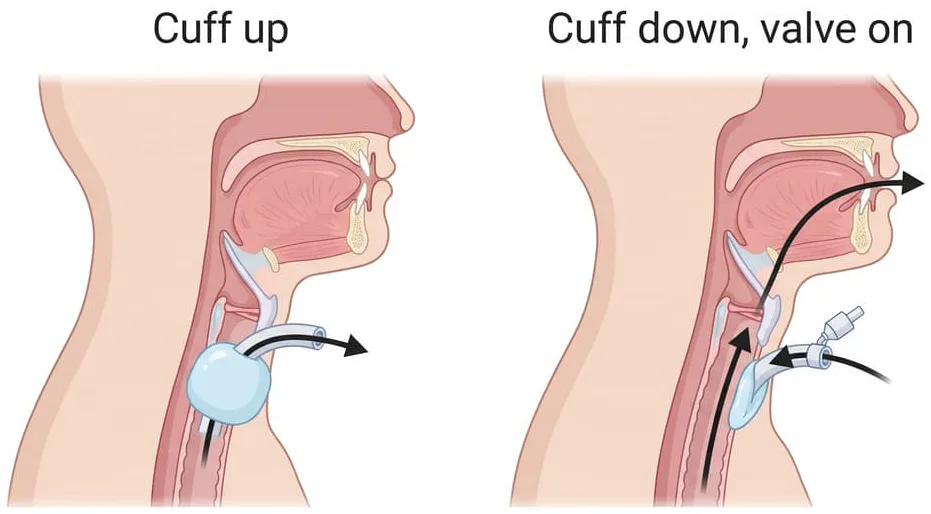
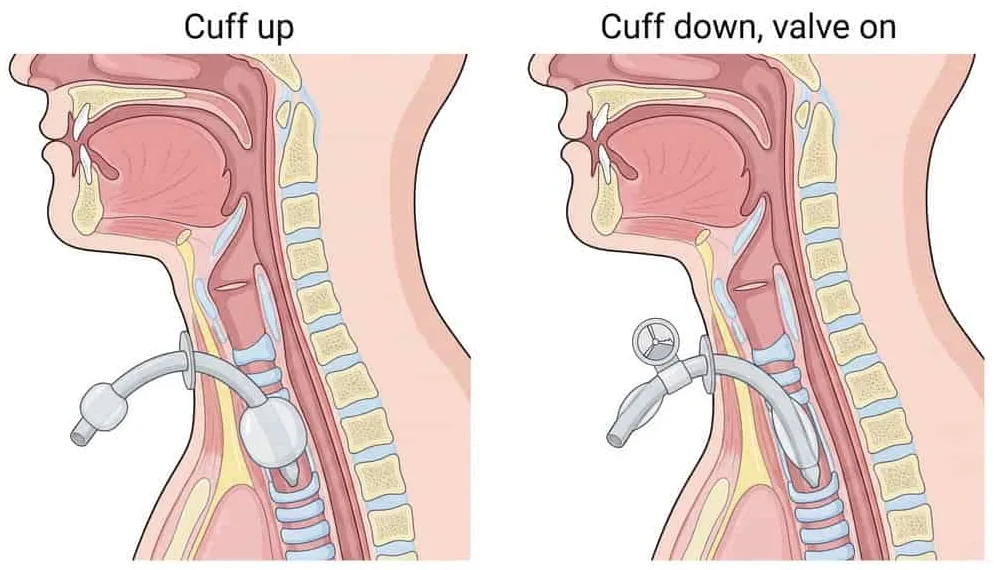
liberation: fixes from the independent content audit; redrawn speaking-valve plate
Claude-Session: https://claude.ai/code/session_01CMoRtAYGK1YNh1Z7gP8FnA

diff --git a/liberation/index.html b/liberation/index.html
@@ -258,7 +258,7 @@ footer p{margin:0 0 8px}
   <p><strong>For education only. Not a substitute for clinical judgment.</strong> Built to the ATS/CHEST 2017 liberation guideline, the AARC 2024 guideline, the ERS/ATS 2017 noninvasive ventilation guideline and the ERS 2022 high-flow guideline, with the UK National Tracheostomy Safety Project algorithm and the FICM/ICS 2020 tracheostomy care guidance for the tracheostomy steps. The daily screen, first trial and cuff leak test are in the ventilator tool; sedation in the sedation tool. Airway teams, tracheostomy equipment and protocols vary, so adjust to your institution. Evidence tiers are shown as strength and certainty (strong or conditional; high, moderate, low or very low); rows marked expert practice are not from a graded guideline. Bedside predictors are shown with the study and the population they came from.</p>
   <p>Privacy: everything runs in your browser. Nothing you enter is sent anywhere or stored, and there are no analytics. Do not enter names, record numbers, or dates of birth.</p>
   <p class="mono">Last reviewed: 2026-11-26</p>
-  <p><strong>Sources:</strong> Schmidt GA et al., ATS/CHEST liberation guideline executive summary, Chest 2017;151:160 · Ouellette DR et al., Chest 2017;151:166 · Girard TD et al., Am J Respir Crit Care Med 2017;195:120 · Roberts KJ et al., AARC guideline on spontaneous breathing trials, Respir Care 2024;69:891 · Rochwerg B et al., ERS/ATS noninvasive ventilation guideline, Eur Respir J 2017;50:1602426 · Oczkowski S et al., ERS high-flow guideline, Eur Respir J 2022;59:2101574 · Quintard H et al., SFAR/SRLF extubation guideline, Ann Intensive Care 2019;9:13 · Boles JM et al., weaning task force, Eur Respir J 2007;29:1033 · Béduneau G et al. (WIND), Am J Respir Crit Care Med 2017;195:772 · McGrath BA et al., National Tracheostomy Safety Project algorithms, Anaesthesia 2012;67:1025 · Faculty of Intensive Care Medicine and Intensive Care Society, Guidance for tracheostomy care, 2020 · Intensive Care Society, Standards for the care of adult patients with a temporary tracheostomy, 2014 · Passy-Muir valve instructions for use · NCEPOD, On the right trach?, 2014 · Predictors and mechanisms: Anguel N et al., Intensive Care Med 2008;34:1231 · Lamia B et al., Crit Care Med 2009;37:1696 · Liu J et al., Crit Care 2016;20:369 · Routsi C et al., Crit Care 2010;14:R204 · DiNino E et al., Thorax 2014;69:423 · Levine S et al., N Engl J Med 2008;358:1327 · Dres M et al., Am J Respir Crit Care Med 2017;195:57 · Salam A et al., Intensive Care Med 2004;30:1334 · Smina M et al., Chest 2003;124:262 · Khamiees M et al., Chest 2001;120:1262 · Coplin WM et al., Am J Respir Crit Care Med 2000;161:1530 · Epstein SK et al., Chest 1997;112:186 · Burns KE et al., Cochrane 2013;CD004127 · Andriolo BN et al., Cochrane 2015;CD007271 · Chorath K et al., JAMA Otolaryngol 2021 · Trials: Esteban A et al., N Engl J Med 1995;332:345 · Ely EW et al., N Engl J Med 1996;335:1864 · Girard TD et al. (ABC), Lancet 2008;371:126 · Subirà C et al., JAMA 2019;321:2175 · Thille AW et al. (TIP-EX), N Engl J Med 2022;387:1843 · Mekontso Dessap A et al., Am J Respir Crit Care Med 2012;186:1256 · Thille AW et al. (HIGH-WEAN), JAMA 2019;322:1465 · Hernández G et al., JAMA 2016;315:1354 · Hernández G et al., JAMA 2016;316:1565 · Esteban A et al., N Engl J Med 2004;350:2452 · François B et al., Lancet 2007;369:1083 · Jubran A et al., JAMA 2013;309:671 · Young D et al. (TracMan), JAMA 2013;309:2121 · Terragni PP et al., JAMA 2010;303:1483.</p>
+  <p><strong>Sources:</strong> Schmidt GA et al., ATS/CHEST liberation guideline executive summary, Chest 2017;151:160 · Ouellette DR et al., Chest 2017;151:166 · Girard TD et al., Am J Respir Crit Care Med 2017;195:120 · Roberts KJ et al., AARC guideline on spontaneous breathing trials, Respir Care 2024;69:891 · Rochwerg B et al., ERS/ATS noninvasive ventilation guideline, Eur Respir J 2017;50:1602426 · Oczkowski S et al., ERS high-flow guideline, Eur Respir J 2022;59:2101574 · Goel NN et al., ATS noninvasive respiratory support guideline, Am J Respir Crit Care Med 2026;212:2135 (abstract) · Quintard H et al., SFAR/SRLF extubation guideline, Ann Intensive Care 2019;9:13 · Boles JM et al., weaning task force, Eur Respir J 2007;29:1033 · Béduneau G et al. (WIND), Am J Respir Crit Care Med 2017;195:772 · McGrath BA et al., National Tracheostomy Safety Project algorithms, Anaesthesia 2012;67:1025 · Faculty of Intensive Care Medicine and Intensive Care Society, Guidance for tracheostomy care, 2020 · Intensive Care Society, Standards for the care of adult patients with a temporary tracheostomy, 2014 · Passy-Muir valve instructions for use · NCEPOD, On the right trach?, 2014 · Predictors and mechanisms: Anguel N et al., Intensive Care Med 2008;34:1231 · Lamia B et al., Crit Care Med 2009;37:1696 · Liu J et al., Crit Care 2016;20:369 · Routsi C et al., Crit Care 2010;14:R204 · DiNino E et al., Thorax 2014;69:423 · Levine S et al., N Engl J Med 2008;358:1327 · Dres M et al., Am J Respir Crit Care Med 2017;195:57 · Salam A et al., Intensive Care Med 2004;30:1334 · Smina M et al., Chest 2003;124:262 · Khamiees M et al., Chest 2001;120:1262 · Coplin WM et al., Am J Respir Crit Care Med 2000;161:1530 · Epstein SK et al., Chest 1997;112:186 · Burns KE et al., Cochrane 2013;CD004127 · Andriolo BN et al., Cochrane 2015;CD007271 · Chorath K et al., JAMA Otolaryngol Head Neck Surg 2021;147:450 · Trials: Esteban A et al., N Engl J Med 1995;332:345 · Ely EW et al., N Engl J Med 1996;335:1864 · Girard TD et al. (ABC), Lancet 2008;371:126 · Subirà C et al., JAMA 2019;321:2175 · Thille AW et al. (TIP-EX), N Engl J Med 2022;387:1843 · Mekontso Dessap A et al., Am J Respir Crit Care Med 2012;186:1256 · Thille AW et al. (HIGH-WEAN), JAMA 2019;322:1465 · Hernández G et al., JAMA 2016;315:1354 · Hernández G et al., JAMA 2016;316:1565 · Esteban A et al., N Engl J Med 2004;350:2452 · François B et al., Lancet 2007;369:1083 · Jubran A et al., JAMA 2013;309:671 · Young D et al. (TracMan), JAMA 2013;309:2121 · Terragni PP et al., JAMA 2010;303:1483.</p>
 </footer>
 </div>
 <script id="engine">
@@ -290,7 +290,9 @@ var WHY = {
   hfnc: 'High flow washes out dead space and gives a little pressure; in low-risk patients it lowered reintubation from 12.2% to 4.9%.',
   fail: 'Waiting on NIV once failure has set in delayed reintubation and was linked with higher ICU mortality.',
   emerg: 'Oxygenation comes first; a fresh tract can close or mislead a tube into the tissues, so the airway from above is the safer route.',
-  timing: 'Early tracheostomy did not lower mortality, and many patients in the late groups recovered without one, so timing follows the expected course, not a fixed day.',
+  lary: 'After a laryngectomy the mouth no longer connects to the lungs, so oxygen and any airway can go only through the stoma.',
+  hfncHigh: 'In high-risk patients high flow was non-inferior to NIV for reintubation, and was better tolerated (NIV stopped for side effects in 43%).',
+  timing: 'Early tracheostomy did not lower mortality, and many patients in the late groups never received one, so timing follows the expected course, not a fixed day.',
   care: 'A displaced or blocked tube is the commonest serious complication; the right kit and a sign at the bed save the minutes that matter.',
   talk: 'A one-way valve lets air in through the tube and out through the mouth; with the cuff up, the breath has nowhere to go.'
 };
@@ -338,7 +340,7 @@ var DOMAINS = [
     fix: ['Replace electrolytes; correct a metabolic alkalosis (often from diuretics or gastric losses).'],
     why: 'metab', tier: 'Expert practice'}
 ];
-function domainScore(d, i){ var s = 0; Object.keys(d.w).forEach(function(k){ if (i[k]) s += d.w[k]; }); if (d.k === 'nm' && has(i.dvent) && i.dvent >= 7) s += 1; return s; }
+function domainScore(d, i){ var s = 0; Object.keys(d.w).forEach(function(k){ if (i[k]) s += d.w[k]; }); if (d.k === 'nm' && s > 0 && has(i.dvent) && i.dvent >= 7) s += 1; return s; }
 
 function weanCards(i){
   var cards = [], c0 = weanClass(i);
@@ -354,11 +356,11 @@ function weanCards(i){
     if (d.k === 'load' || d.k === 'nm' || d.k === 'cardiac') (c.chips = c.chips || []).push(['balance', d.k === 'load' ? 'airway' : d.k === 'nm' ? 'weak' : 'fluid', 'Load against capacity']);
     cards.push(c);
   });
-  if (ranked.length || c0){
+  if (ranked.length || (c0 && (i.nfail > 0 || has(i.dfirst)))){
     var n = {id: 'c-next', label: 'Next attempt', head: i.trach ? 'Next trial: off the ventilator on a tracheostomy collar' : 'Fix the cause, then retry tomorrow', list: []};
     if (i.trach) n.list.push('In long-term weaning on a tracheostomy, unassisted collar trials weaned faster than gradual pressure-support reduction (median 15 against 19 days, 316 patients).');
     n.list.push('Screen daily and run the trial before noon; do not raise the FiO2 during it (AARC 2024, conditional, very low).');
-    n.list.push('First trial with pressure support 5 to 8 cm H2O rather than a T-piece (conditional, moderate). In high-risk patients a pressure-support trial got more patients extubated within 24 hours with similar reintubation (TIP-EX).');
+    n.list.push('Pressure support 5 to 8 cm H2O or a T-piece: ATS/CHEST 2017 suggests pressure support for the first trial (conditional, moderate); AARC 2024 accepts either (conditional, moderate). In high-risk patients a pressure-support trial got more patients extubated within 24 hours with similar reintubation (TIP-EX).');
     var prol = (has(i.dfirst) && i.dfirst >= 7) || (has(i.nfail) && i.nfail >= 3);
     if (prol && !i.trach) n.list.push('Prolonged weaning: weigh a tracheostomy (Trach tab).');
     if (prol) n.list.push('If weaning is prolonged and the overall course is not improving, hold a goals-of-care conversation alongside the plan (expert practice).');
@@ -374,13 +376,14 @@ function extCards(i){
   if (has(i.hrs) || anyFail){
     var f = {id: 'c-fail', label: 'After extubation', list: [], guards: []};
     if (i.strid){
-      f.head = 'Stridor: an airway emergency in waiting'; f.stop = !!(i.work || i.spo2 || i.mental);
+      f.head = 'Stridor: an airway emergency in waiting'; f.stop = !!(i.work || i.spo2 || i.mental || i.co2 || i.clear);
       f.sub = 'Sit the patient up, give humidified oxygen, and call the airway team now.';
       f.list = ['Nebulized epinephrine and an IV steroid are commonly given, and heliox can bridge; none is backed by a graded guideline (expert practice).', 'High flow and NIV do not relieve laryngeal edema.', 'Worsening, or with the other signs of failure: reintubate, with a smaller tube and difficult-airway equipment ready.'];
       f.guards.push('Do not let NIV or nebulizers delay reintubation.');
       f.why = WHY.stridor; f.tiers = ['Expert practice'];
     } else if (anyFail){
-      f.stop = true; f.head = 'Failing after extubation: reintubate';
+      var nsig = TE2.filter(function(t){ return i[t[0]]; }).length;
+      f.stop = true; f.head = nsig > 1 ? 'Failing after extubation: reintubate' : 'Signs of failure: reassess now and prepare to reintubate';
       f.sub = 'Signs entered: ' + TE2.filter(function(t){ return i[t[0]]; }).map(function(t){ return t[1].toLowerCase(); }).join('; ') + '.';
       f.list = ['Do not treat established failure with NIV: in the trial it did not prevent reintubation (48% in both arms), delayed it (12 against 2.5 hours), and ICU mortality was higher (25% against 14%).', 'A French guideline allows a careful NIV trial in COPD or clear cardiogenic edema, with weak agreement; only with intubation ready.', 'Patients who failed extubation had higher hospital mortality (43% against 12% in one cohort), partly from the failure itself and partly from what caused it.'];
       f.why = WHY.fail; f.tiers = ['Against NIV for established failure: conditional, low (ERS/ATS 2017)'];
@@ -404,7 +407,7 @@ function extCards(i){
   else { a.head = r === 2 ? 'Two airway risks: failure much more likely' : 'One airway risk: plan for it'; a.sub = 'Present: ' + which.join(', ') + '.'; }
   if (r) a.list.push('Each raised the risk of failure: peak cough flow 60 L/min or less about 5 times, secretions over 2.5 mL/h about 3 times, unable to follow 4 commands about 4 times. Any two: sensitivity 71%, specificity 81%.');
   if (i.brain && i.cmd === 'no') a.list.push('Brain injury: in one cohort, staying intubated for a low coma score alone led to more pneumonia without fewer reintubations; judge cough and secretions, not the score alone.');
-  a.list.push('Before extubation: screen swallowing and consciousness, and involve the physiotherapist (expert consensus).');
+  a.list.push('Before extubation: screen swallowing and consciousness, and involve the physiotherapist (SFAR/SRLF 2019, grade 2+).');
   a.why = r ? WHY.airway : null; a.tiers = ['Bedside predictors: cohort studies'];
   cards.push(a);
   /* Stridor */
@@ -428,19 +431,19 @@ function extCards(i){
     p.head = 'High risk, NIV not possible: high flow';
     p.sub = 'High flow when NIV is contraindicated or not tolerated (ERS 2022).';
     p.list = ['In high-risk patients high flow was non-inferior to NIV for reintubation (22.8% against 19.1%); NIV was stopped for side effects in 43%.'];
-    p.why = WHY.hfnc; p.tiers = ['ERS 2022: conditional'];
+    p.why = WHY.hfncHigh; p.tiers = ['ERS 2022: conditional'];
   } else if (other.length){
-    p.head = 'High flow, or NIV';
+    p.head = 'NIV, or high flow if NIV is unsuitable';
     p.sub = 'Other risk factors: ' + other.join(', ') + '. These defined the high-risk group in a trial where high flow was non-inferior to NIV.';
-    p.list = ['Reintubation 22.8% with high flow against 19.1% with NIV (non-inferior); NIV was stopped for side effects in 43%.', 'NIV does not help a problem in the upper airway, and copious secretions make it harder to use.'];
-    p.why = WHY.hfnc; p.tiers = ['Hernández 2016 (trial)'];
+    p.list = ['ERS 2022 suggests NIV over high flow at high risk unless NIV is contraindicated (conditional, moderate); high flow suits secretion or upper-airway problems.', 'Reintubation 22.8% with high flow against 19.1% with NIV (non-inferior); NIV was stopped for side effects in 43%.', 'NIV does not help a problem in the upper airway, and copious secretions make it harder to use.'];
+    p.why = WHY.hfncHigh; p.tiers = ['ERS 2022: conditional, moderate', 'Hernández 2016 (trial)'];
   } else {
     p.head = 'High-flow nasal oxygen';
     p.sub = 'Low or moderate risk: high flow over conventional oxygen.';
     p.list = ['Low-risk patients: reintubation 4.9% with high flow against 12.2% with conventional oxygen (527 patients).'];
-    p.why = WHY.hfnc; p.tiers = ['Conditional, low (ERS 2022)', 'Suggested (ATS 2026)'];
+    p.why = WHY.hfnc; p.tiers = ['Conditional, low (ERS 2022)', 'Suggested, risk-based (ATS 2026, abstract)'];
   }
-  if (i.surg) p.list.push('After surgery: the ERS 2022 recommendations cover non-surgical patients; ATS/CHEST applies to anyone ventilated over 24 hours.');
+  if (i.surg) p.list.push('After surgery: ERS 2022 suggests high flow or conventional oxygen at low risk, and high flow or NIV at high risk (conditional, low); ATS/CHEST applies to anyone ventilated over 24 hours.');
   p.links = [['/oxygen-niv/#bycause', 'High flow and NIV settings']];
   p.chips = [['airway', 'cough', 'What the trial does not test']];
   cards.push(p);
@@ -449,19 +452,22 @@ function extCards(i){
 
 /* Tracheostomy */
 function trachCards(i){
-  var cards = [], fresh = i.ttype === 'perc' ? (has(i.tdays) && i.tdays < 7) : i.ttype === 'surg' ? (has(i.tdays) && i.tdays < 4) : (has(i.tdays) && i.tdays < 7);
+  var cards = [], fresh = !has(i.tdays) || (i.ttype === 'surg' ? i.tdays < 4 : i.tdays < 7);
   var e = {id: 'c-emerg', label: 'Emergency · tube out or blocked', stop: i.sit === 'emerg', list: [], guards: []};
   if (i.lary){
     e.head = 'Laryngectomy: the neck is the only airway';
     e.sub = 'Red bedhead sign. Oxygen to the stoma; do not try to oxygenate or intubate from the mouth.';
-    e.steps = ['Call the airway team (anesthesia and ENT) and the code team.', 'Look, listen and feel at the stoma. Not breathing and no pulse: CPR.', 'High-flow oxygen to the stoma; capnography.', 'Remove any device in the stoma; pass a suction catheter.', 'Oxygenate through the stoma (pediatric face mask or laryngeal mask over it); intubate the stoma with a small tube if needed.'];
+    e.steps = ['Call the airway team (anesthesia and ENT) and the code team.', 'Look, listen and feel at the stoma. Not breathing and no pulse: CPR.', 'High-flow oxygen to the stoma; capnography.', 'Remove any stoma cover and any tube in the stoma (leave a voice prosthesis in place); pass a suction catheter.', 'Oxygenate through the stoma (pediatric face mask or laryngeal mask over it); intubate the stoma with a small tube if needed.'];
   } else {
-    e.head = fresh ? 'Fresh tracheostomy (' + i.tdays + ' days): manage from above' : 'Tube out or blocked: oxygenate first';
-    e.sub = fresh ? 'The tract is not established: do not blindly reinsert, which can make a false passage. Oxygenate by mouth and nose; oral intubation by an experienced operator.' : 'Green bedhead sign (upper airway patent). Follow the steps in order.';
+    e.head = fresh ? (has(i.tdays) ? 'Fresh tracheostomy (' + i.tdays + ' days): manage from above' : 'Tube out or blocked: oxygenate, and manage from above') : 'Tube out or blocked: oxygenate first';
+    e.sub = fresh ? (has(i.tdays) ? 'The tract is not established: do not blindly reinsert, which can make a false passage. Oxygenate by mouth and nose; oral intubation by an experienced operator.' : 'Check the bedhead sign: green means the upper airway is patent. Days since placement unknown: treat the tract as fresh and do not blindly reinsert.') : (has(i.tdays) ? 'Check the bedhead sign: green means the upper airway is patent. Follow the steps in order.' : 'Check the bedhead sign: green means the upper airway is patent. Days since placement unknown: treat as fresh.');
     e.steps = ['Call the airway team (anesthesia and ENT).', 'Look, listen and feel at the mouth and the tracheostomy. Not breathing: call the code team; CPR if no pulse.', 'Breathing: high-flow oxygen to both the face and the tracheostomy; capnography.', 'Remove a speaking valve or cap and the inner tube; pass a suction catheter.', 'Catheter will not pass: deflate the cuff. Do not bag through a tube you cannot confirm is patent.', 'Not stable or improving: remove the tracheostomy tube; recheck breathing; CPR if no pulse.', 'Oxygenate from above (bag-mask with the stoma covered, or a laryngeal mask), or over the stoma.', 'Then oral intubation with an uncut tube advanced beyond the stoma, or intubate the stoma with a small tube (for example a 6.0).'];
-    if (fresh) e.guards.push('Within 7 days of a percutaneous tracheostomy, it may be safer to manage the upper airway than to reinsert through the stoma (FICM/ICS 2020).');
+    if (fresh){
+      e.steps[7] = 'Then oral intubation with an uncut tube advanced beyond the stoma. Do not reinsert or intubate through the fresh stoma unless an expert is doing it, ideally over a fiberoptic scope.';
+      e.guards.push(i.ttype === 'surg' ? 'Surgical tracheostomy under 4 days: manage from above; stay sutures, if placed, can lift the stoma for an expert.' : i.ttype === 'perc' ? 'Within 7 days of a percutaneous tracheostomy, it may be safer to manage the upper airway than to reinsert through the stoma (FICM/ICS 2020).' : 'Type not known: treat it as a percutaneous tract (under 7 days).');
+    }
   }
-  e.why = WHY.emerg; e.tiers = ['National Tracheostomy Safety Project algorithm (consensus)', 'FICM/ICS 2020'];
+  e.why = i.lary ? WHY.lary : WHY.emerg; e.tiers = ['National Tracheostomy Safety Project algorithm (consensus)', 'FICM/ICS 2020'];
   e.chips = [['neck', i.lary ? 'lary' : 'trach', 'Two airways']];
   var plan = {id: 'c-plan', label: 'When to place one', head: 'No fixed day: when a long course is expected',
     list: ['TracMan (909 patients): tracheostomy by day 4 against after day 10 gave the same 30-day mortality (30.8% against 31.5%); only 44.9% of the late group ever received one.', 'Day 6 to 8 against 13 to 15 (419 patients): pneumonia 14% against 21% (not significant).', 'Meta-analyses: early (by day 7 or 10) may lower pneumonia or mortality, with low certainty; one called the findings no more than suggestive.', 'For the family: it replaces the tube in the mouth, usually allows less sedation, talking later with a valve and eating once swallowing is checked; it is often temporary.'],
@@ -471,7 +477,7 @@ function trachCards(i){
     list: ['At the bed: a spare tube of the same size and one a size smaller, spare inner tubes, suction, a cuff-pressure gauge, a stitch cutter; the obturator if the tube has one (expert practice).', 'A bedhead sign completed by the operator: type, size, date, whether the upper airway is patent.', 'Capnography whenever the patient is ventilator dependent.', 'First tube change: after 7 to 10 days for a percutaneous tracheostomy; after a surgical one, often safe after 2 to 3 days (FICM) or 4 (ICS 2014). An experienced operator, ideally over a guide.'],
     why: WHY.care, tiers: ['FICM/ICS 2020', 'ICS 2014', 'NCEPOD 2014']};
   if (i.ttype && has(i.tdays)){
-    var due = i.ttype === 'perc' ? 7 : 3;
+    var due = i.ttype === 'perc' ? 7 : 4;
     care.sub = (i.ttype === 'perc' ? 'Percutaneous' : 'Surgical') + ', day ' + i.tdays + ': ' + (i.tdays < due ? 'too early for a routine change.' : 'a first change can be planned.');
   }
   var talk = {id: 'c-talk', label: 'Cuff down and speaking valve', head: i.vent ? 'On the ventilator: cuff down slowly, then the valve' : 'Cuff fully down before the valve goes on',
@@ -575,7 +581,7 @@ var FIGS = {
 };
 
 var PLATES = {
-  trach: {t: 'Cuff up, cuff down', src: '/media/liberation/speaking-valve.webp', w: 931, h: 514, alt: 'Two side views of a neck with a tracheostomy tube in the trachea below the larynx. Left, cuff up: an inflated cuff seals the trachea and an arrow shows air leaving only through the tube. Right, cuff down with a valve: the cuff is deflated, a small one-way valve sits on the tube, and arrows show air entering through the valve, then passing up around the tube through the vocal cords and out of the mouth.', cap: 'With the cuff up, all air moves through the tube. With the cuff fully down and a one-way valve on, air goes in through the tube and out past the vocal cords, so the patient can speak. A valve on a tube with the cuff up blocks breathing out completely.'}
+  trach: {t: 'Cuff up, cuff down', src: '/media/liberation/speaking-valve.webp', w: 994, h: 570, alt: 'Two side views of a neck showing the mouth, larynx with vocal cords, trachea and esophagus, with a curved tracheostomy tube entering the trachea below the larynx. Left, cuff up: an inflated balloon cuff fills the trachea around the tube. Right, cuff down with a valve: the cuff lies flat against the tube, leaving space around it, and a small one-way valve is attached at the outer end.', cap: 'With the cuff up, all air moves through the tube. With the cuff fully down and a one-way valve on, air goes in through the tube and, on breathing out, passes up around the tube and through the vocal cords, so the patient can speak. A valve on a tube with the cuff up blocks breathing out completely.'}
 };
 function plateHTML(id){ var P = PLATES[id]; if (!P) return ''; return '<div class="plate"><img src="' + P.src + '" alt="' + P.alt + '" width="' + P.w + '" height="' + P.h + '" loading="lazy"><span class="credit">Created with BioRender.com</span></div><p class="line1">' + P.cap + '</p>'; }
 
@@ -598,7 +604,7 @@ var TRIALS = [
 
 var CASES = [
   {tab: 'wean', t: 'Fails at 20 minutes, every time', s: 'A 72-year-old with heart failure (EF 30%), day 6 on the ventilator after pneumonia, +6 L balance. Second failed trial in 2 days: blood pressure from 120 to 175, heart rate 120, new crackles, SpO2 down to 88%.', q: 'Why is the trial failing, and what next?', i: {dvent: 6, dfirst: 2, nfail: 2, cardio: true, hypox: true, lvd: true, bal: true}, p: 'Weaning-induced pulmonary edema is the leading cause: the surge in pressure, crackles and desaturation on a weak, fluid-loaded ventricle. Confirm with a rise in plasma protein or an echo at the end of the trial; diurese toward an even balance, control the blood pressure surge, and retry. Difficult weaning (1 to 7 days).'},
-  {tab: 'ext', t: 'Good trial, wet airway', s: 'A 58-year-old passed a 30-minute pressure-support trial easily. Cough is weak, suctioned for moderate secretions every hour, follows commands. No other risk factors.', q: 'Extubate?', i: {pass: true, cough: 'weak', secr: 'heavy', cmd: 'yes'}, p: 'Two airway risks (weak cough, heavy secretions): failure much more likely despite the passed trial. Weigh a short delay with physiotherapy and suction; if extubating, high flow or NIV (these factors defined the high-risk group in the trial where high flow was non-inferior), with a plan to reintubate early.'},
+  {tab: 'ext', t: 'Good trial, wet airway', s: 'A 58-year-old passed a 30-minute pressure-support trial easily. Cough is weak, suctioned for moderate secretions every hour, follows commands. No other risk factors.', q: 'Extubate?', i: {pass: true, cough: 'weak', secr: 'heavy', cmd: 'yes'}, p: 'Two airway risks (weak cough, heavy secretions): failure much more likely despite the passed trial. Weigh a short delay with physiotherapy and suction; if extubating, NIV or high flow (ERS 2022 prefers NIV at high risk, but heavy secretions make NIV harder and favor high flow), with a plan to reintubate early.'},
   {tab: 'ext', t: 'COPD, passed the trial', s: 'A 70-year-old with COPD, intubated 5 days for an exacerbation. Passed the trial; PaCO2 rose to 52 by the end. Strong cough, few secretions, follows commands.', q: 'What support after extubation?', i: {pass: true, cough: 'strong', secr: 'few', cmd: 'yes', age65: true, chronic: true, hyperc: true}, p: 'High risk (over 65, COPD, hypercapnia on the trial): extubate straight to NIV, with high flow between sessions (strong, moderate for preventive NIV in high-risk patients ventilated over 24 hours).'},
   {tab: 'ext', t: 'Stridor at one hour', s: 'A 45-year-old extubated an hour ago after 8 days intubated. Now inspiratory stridor, rate 30, using neck muscles, SpO2 93% on high flow.', q: 'What now?', i: {pass: true, stridor: true, hrs: 1, strid: true, work: true}, p: 'Post-extubation stridor with increased work of breathing: sit up, humidified oxygen, call the airway team now; nebulized epinephrine and an IV steroid are commonly given (expert practice). High flow and NIV do not treat laryngeal edema: if it is not settling, reintubate with a smaller tube and difficult-airway equipment ready.'},
   {tab: 'wean', t: 'Day 12, third failure', s: 'A 64-year-old after septic shock, day 12 on the ventilator, three failed trials over 8 days. Weak: cannot lift the arms against gravity. Rapid shallow breathing on each trial. Received a neuromuscular blocker for 2 days early on.', q: 'What is going on, and is it time for a tracheostomy?', i: {dvent: 12, dfirst: 8, nfail: 3, rsb: true, weak: true, paral: true}, p: 'Prolonged weaning (over 7 days, three failed trials) with weakness as the leading cause: diaphragm and limb weakness after critical illness. Lighter sedation, rehabilitation, electrolytes and nutrition. A tracheostomy is reasonable now that a long course is likely; no fixed day is better (TracMan).'},
@@ -720,7 +726,7 @@ drawInputs(); render(); fromHash();
 "learn-diaphragm": [["Mechanism", "A diaphragm that does not contract loses muscle protein quickly, and critical illness, sepsis and some drugs add direct injury to muscle and nerve."], ["Why it matters", "Letting the patient trigger breaths, keeping sedation light and mobilizing early protect the muscle that must take over when the ventilator stops."], ["Common trap", "Leaving a recovering patient on fully controlled ventilation for comfort or convenience long after it is needed."]],
 "learn-airway": [["Mechanism", "A breathing trial tests whether the lungs and muscles can sustain ventilation through a tube that bypasses the larynx. After extubation the patient must also protect the airway, clear secretions by coughing and keep the larynx open."], ["Why it matters", "Patients who pass the trial can still fail extubation because of a weak cough, heavy secretions, a depressed level of consciousness or laryngeal edema, and failing extubation is linked with higher mortality."], ["Common trap", "Treating a passed trial as permission to extubate without checking the cough, the secretions and whether the patient can follow commands."]],
 "learn-wind": [["Mechanism", "Classifying weaning by the time from the first attempt to separation sorts patients by how hard liberation is proving to be."], ["Why it matters", "The longer weaning takes, the higher the mortality and the stronger the case for a systematic search for causes, a tracheostomy decision and a conversation about goals."], ["Common trap", "Reading the class as a cause. Prolonged weaning marks sicker patients; it does not mean that weaning itself caused the deaths."]],
-"learn-trach": [["Mechanism", "A tracheostomy enters the trachea below the larynx. After a laryngectomy the trachea is brought out to the neck and the mouth no longer connects to the lungs. A new tracheostomy tract takes about a week to form, during which a dislodged tube can be pushed into the tissues of the neck."], ["Why it matters", "The airway emergency is handled differently in each: with a patent upper airway, oxygen and intubation can come from above; after a laryngectomy, only through the stoma."], ["Common trap", "Forcing a tube back into a fresh tract and ventilating into the tissues of the neck, or trying to oxygenate a laryngectomy patient by mouth."]]
+"learn-trach": [["Mechanism", "A tracheostomy enters the trachea below the larynx. After a laryngectomy the trachea is brought out to the neck and the mouth no longer connects to the lungs. A new tracheostomy tract takes about a week to form after a percutaneous tracheostomy (sooner after a surgical one), during which a dislodged tube can be pushed into the tissues of the neck."], ["Why it matters", "The airway emergency is handled differently in each: with a patent upper airway, oxygen and intubation can come from above; after a laryngectomy, only through the stoma."], ["Common trap", "Forcing a tube back into a fresh tract and ventilating into the tissues of the neck, or trying to oxygenate a laryngectomy patient by mouth."]]
 };
   function add(){ Object.keys(D).forEach(function(id){ var c = document.getElementById(id); if (!c || c.querySelector(":scope > .deeper")) return; var d = document.createElement("details"); d.className = "deeper"; d.innerHTML = "<summary>Go deeper: mechanism and rationale</summary><div class=\"dpx\">" + D[id].map(function(r){ return "<div><span class=\"dl\">" + r[0] + "</span><p>" + r[1] + "</p></div>"; }).join("") + "</div>"; c.appendChild(d); }); }
   add();
